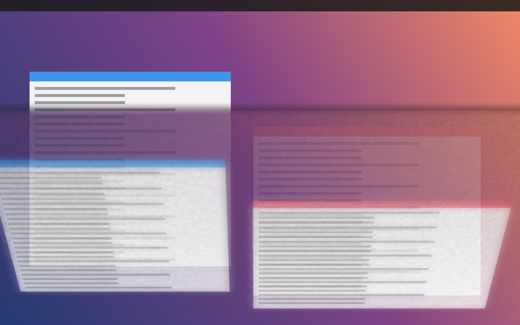
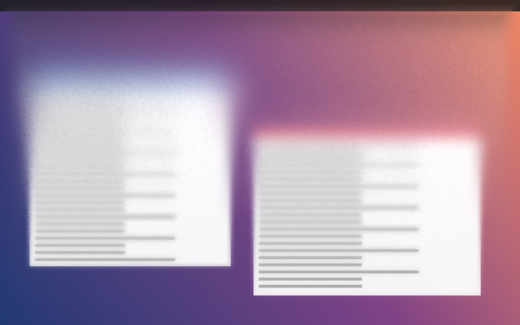
Update README and stills for the corrected effect
Drops the mode comparison, rewrites the fold and render sections to describe the
gap-driven gradient and the blur pyramid, and regenerates the stills.

diff --git a/README.md b/README.md
@@ -6,8 +6,8 @@
 
 **A pane of frosted glass, hinged along the bottom edge of your MacBook's display.**
 
-It reads the lid-angle sensor directly. Close the lid slowly and the glass leans with it.<br>
-Stop halfway and it holds there.
+Clear where it touches, frosted where it lifts. It reads the lid-angle sensor<br>
+directly — close the lid slowly and the glass follows your hand. Stop halfway and it holds.
 
 <p>
   <img alt="macOS 14+" src="https://img.shields.io/badge/macOS-14%2B-1c1c1e?style=flat-square&logo=apple&logoColor=white">
@@ -17,7 +17,7 @@ Stop halfway and it holds there.
   <img alt="MIT licence" src="https://img.shields.io/badge/Licence-MIT-0969da?style=flat-square">
 </p>
 
-<img src="docs/images/hero.png" width="820" alt="The frosted pane lifted off the desktop, leaning toward the viewer">
+<img src="docs/images/hero.png" width="820" alt="The display frosted toward the top and clear along the bottom edge">
 
 <sub>Stills are rendered from a synthetic desktop so none of mine ends up in the repo.<br>
 Regenerate them from your own screenshot: <code>Scripts/filmstrip.sh --input shot.png --out docs/images</code></sub>
@@ -31,8 +31,13 @@ account, no licence key, no network code of any kind.
 
 ## The fold
 
-The pane lies flat and invisible while the lid is open. As the lid comes down it
-lifts, leans and foreshortens — driven by the sensor, not by a timed animation.
+The pane is hinged along the bottom edge of the display, so the gap between
+glass and screen is nothing at the hinge and grows toward the top. The frost
+follows the gap. The bottom of your display stays clear — near the hinge the
+glass is practically touching it — while the top goes milky.
+
+It is not a blur laid over the screen. Nothing moves out of place; what changes
+is how far the glass is standing off it.
 
 <table>
 <tr>
@@ -41,24 +46,14 @@ lifts, leans and foreshortens — driven by the sensor, not by a timed animation
 <td width="33%"><img src="docs/images/fold-closing.png" alt=""></td>
 </tr>
 <tr>
-<td align="center"><strong>125°</strong><br><sub>at rest — nothing renders,<br>capture is off</sub></td>
-<td align="center"><strong>70°</strong><br><sub>lifting</sub></td>
+<td align="center"><strong>125°</strong><br><sub>above the engage angle — nothing<br>renders, capture is off</sub></td>
+<td align="center"><strong>80°</strong><br><sub>the gap opens at the top</sub></td>
 <td align="center"><strong>22°</strong><br><sub>nearly shut</sub></td>
 </tr>
 </table>
 
-### Two kinds of glass
-
-<table>
-<tr>
-<td width="50%"><img src="docs/images/mode-lift.png" alt=""></td>
-<td width="50%"><img src="docs/images/mode-seethrough.png" alt=""></td>
-</tr>
-<tr>
-<td align="center"><strong>Lift the image</strong><br><sub>the pane carries a copy of the display,<br>so the picture lifts and leans with the glass</sub></td>
-<td align="center"><strong>See through</strong><br><sub>the pane is empty glass — you see the real<br>display through it, blurred and refracted</sub></td>
-</tr>
-</table>
+Look at the bottom edge of any window in the last two: it stays sharp while its
+own title bar has dissolved.
 
 ## Requirements
 
@@ -108,11 +103,10 @@ hundred times.
 
 | | |
 |---|---|
-| **Intensity** | Low / Medium / High. Drives how far the glass scatters and how opaque it sits. |
-| **Glass** | *Lift the image* or *See through* — the two modes shown above. |
-| **Perspective** | How strongly the pane foreshortens as it leans toward you. |
-| **Edge softness** | Feathering where the glass meets the display. |
-| **Corner radius** | Rounding of the pane's corners. |
+| **Intensity** | Low / Medium / High. How milky the top edge gets once the fold is fully in. |
+| **Perspective** | How hard the gap opens toward the top. Higher keeps the lower half clear for longer and concentrates the milk at the top. |
+| **Edge softness** | Fall-off at the pane's edges. |
+| **Corner radius** | Rounding on the free corners, in points, so you can match your display's own rounding. The hinged edge runs straight. |
 
 **Motion**
 
@@ -121,8 +115,8 @@ hundred times.
 | **Responsiveness** | Low trails the lid; high tracks it immediately. |
 | **Hinge sensitivity** | Where in the lid's travel the fold does most of its work. |
 | **Minimum movement** | Deadband, in degrees. Below this the pane holds still, so a lid parked part-way open doesn't shimmer on sensor noise. |
-| **Resting angle** | The lid angle at which the pane lies flat and disappears. Above it, nothing renders and capture is off. |
-| **Maximum fold** | How far the pane tilts as the lid approaches shut. |
+| **Engages at** | The lid angle at which the fold starts. Above it the pane lies flat, nothing renders and capture is off. |
+| **Maximum fold** | How far the pane lifts off the display once the fold is fully in — which is what sets the gap, and so the frost. |
 | **Stationary frame rate** | 15 / 30 / 60 / 90 / 120 FPS. Only applies while the lid is still. |
 
 ## How it works
@@ -139,15 +133,18 @@ FrostFold's own windows excluded from the content filter (and marked
 Frames arrive as `IOSurface`-backed pixel buffers and become Metal textures
 without a copy.
 
-**The render.** The pane is a real quad in 3D, hinged along `y = -1` and rotated
-about that edge. The vertex shader hands the rasteriser a `w` of `(D - z) / D`
-and lets the hardware do the perspective divide, so the texture stays correct
-across the whole pane rather than warping the way a 2D fake does. The fragment
-shader reduces the frame to quarter resolution, runs a separable Gaussian over
-it, and mixes that diffuse lobe against the sharp frame by an amount that grows
-with distance from the hinge — glass standing further off the display scatters
-more. Grain is keyed to pane-local coordinates, so it lives in the material and
-travels with it instead of sitting on the display behind.
+**The render.** The pane covers the display and is hinged along its bottom
+edge. The gap at any point is its height above the hinge times the sine of the
+tilt, so it is zero at the hinge by construction — that single fact is the whole
+effect. Frost is read straight off the gap.
+
+Rather than crossfading one blurred copy against the sharp frame, the renderer
+builds a four-level blur pyramid (¼, ⅛ and ¹⁄₁₆ resolution, each softer than the
+last) and the fragment shader walks it continuously by the local frost. A
+crossfade reads as haze sitting on top of a still-sharp picture; walking a
+pyramid genuinely defocuses, which is what a diffuser does. Grain is keyed to
+pane-local coordinates, so it lives in the material rather than on the display
+behind it.
 
 There is no specular term anywhere in the shader. Etched glass scatters light;
 it does not reflect it.
@@ -172,7 +169,7 @@ code of any kind. Settings live in `UserDefaults`.
 dist/FrostFold.app/Contents/MacOS/FrostFold --selftest
 
 # Render the pane over a still image at a range of lid angles.
-Scripts/filmstrip.sh --input shot.png --out docs/images --mode both
+Scripts/filmstrip.sh --input shot.png --out docs/images
 ```
 
 `filmstrip` produces the images in this README, and it's the quickest way to
